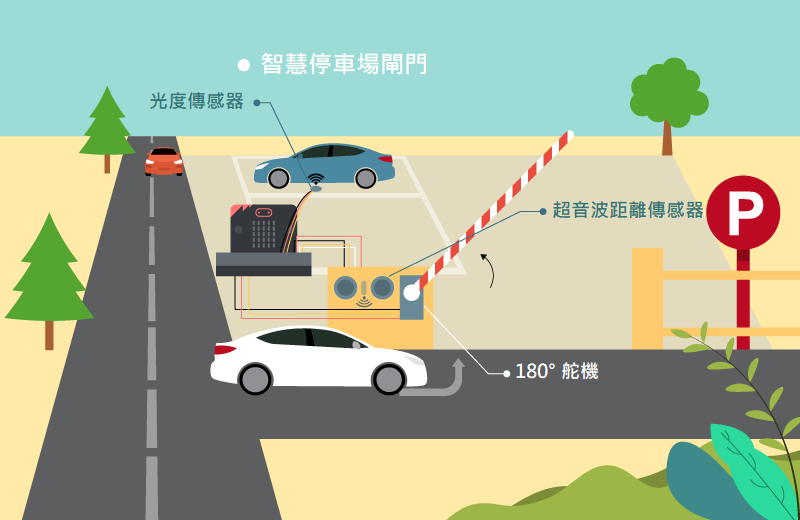
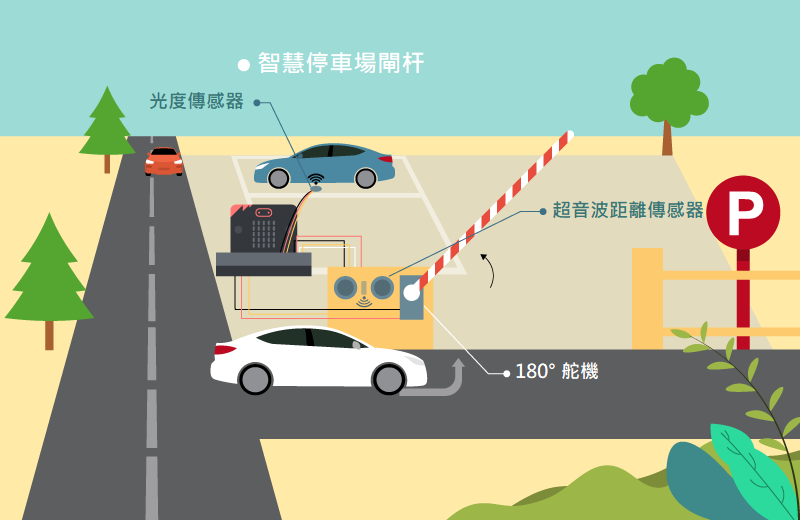
update smartcity menu name

Changed region(s): [[0.3125, 0.0923, 0.5312, 0.1538]]

diff --git a/docs/smartcity/case11.md b/docs/smartcity/case11.md
@@ -1,4 +1,4 @@
-# 物聯網案例 11: 自動天台布架
+# 物聯網案例 11: 自動天台簷篷系統
 
 程度: ![level](images/level4.png)
 ![auto_fit](images/Case11/case-11.png)<P>
@@ -6,7 +6,7 @@
 ## 目標
 <HR>
 
-製作一個會在天氣改變時自動開關的布架，避免衣物被雨水沾濕。
+製作一個會在天氣改變時自動開關的簷篷，避免衣物被雨水沾濕。
 
 ## 背景
 <HR>
@@ -14,7 +14,7 @@
 <span id="subtitle">為什麼我們需要自動布架?</span><BR><P>
 這樣當下雨時人們再不需要衝上天台把衣服收回。<BR><P>
 <span id="subtitle">運作原理</span><BR><P>
-Micro:bit通過IFTTT平台上的天氣預報系統，取得指令內容開關布架。<BR><P>
+Micro:bit通過IFTTT平台上的天氣預報系統，取得指令內容開關簷篷。<BR><P>
 ![auto_fit](images/Case11/Concept-diagram-Case11.png)<P>
 
 ## 所用部件
@@ -80,11 +80,11 @@ G (黑) | G (棕)
 * 在第二個 "那麼" 裡添加`Turn Servo to 180 degree at P1`
 ![auto_fit](images/Case11/Case11_p4.png)<P>
 
-<span id="subtitle">步驟五. 按 A 以開啟布架</span><BR><P>
+<span id="subtitle">步驟五. 按 A 以開啟簷篷</span><BR><P>
 * 當按A按鈕時，轉動舵機
 ![pic_50](images/Case11/Case11_p5.png)<P>
 
-<span id="subtitle">步驟六. 按 B 以開啟布架</span><BR><P>
+<span id="subtitle">步驟六. 按 B 以開啟簷篷</span><BR><P>
 * 當按B按鈕時，向另一角度轉動舵機
 ![pic_50](images/Case11/Case11_p6.png)<P>
 
@@ -114,7 +114,7 @@ MakeCode: [https://makecode.microbit.org/_h133LW5miXY9](https://makecode.microbi
 ## 結果
 <HR>
 IFTTT會依照地點的天氣發送指令。<BR>
-當 micro:bit 收到”RAIN"指令，布架會關上。反之則開啟。<BR><P>
+當 micro:bit 收到”RAIN"指令，簷篷會關上。反之則開啟。<BR><P>
 
 ![auto_fit](images/Case11/Case11_result.gif)<P>
 

diff --git a/docs/smartcity/case01.md b/docs/smartcity/case01.md
@@ -1,4 +1,4 @@
-# 案例 01: 自動化感應街燈
+# 案例 01: 自動遊樂場燈
 
 程度: ![level](images/level1.png)
 ![auto_fit](images/Case1/case-01_1.png)<P>
@@ -6,18 +6,18 @@
 
 ## 目標
 <HR>
-製作一個能感應附近活動的智能街燈。<P>
+製作一個能感應附近活動的智能遊樂場燈。<P>
 
 ## 背景
 <HR>
-<span id="subtitle">甚麼是智能街燈?</span><P>
+<span id="subtitle">甚麼是智能遊樂場燈?</span><P>
 
-智能街燈能夠在感應到有人活動時自動開啟，無人時自動關閉，以節省電力。<P>
+智能遊樂場燈能夠在感應到有人活動時自動開啟，無人時自動關閉，以節省電力。<P>
 
 <span id="subtitle">運作原理</span><P>
 
 以附上的運動傳感器偵察附近的活動。如果傳感器回報 TRUE，則反映有人在附近，
-街燈會自動開啟，反之亦然。<BR>
+遊樂場燈會自動開啟，反之亦然。<BR>
 
 ![pic_60](images/Case1/Concept-diagram-Case1.png)<P>
 
@@ -85,7 +85,7 @@ MakeCode: [https://makecode.microbit.org/_UM2VU1AFoiYt](https://makecode.microbi
 ## 思考
 <HR> 
 
-Q1. 除了自動化感應街燈外，還可以怎使用運動傳感器?<BR><P>
+Q1. 除了自動遊樂場燈外，還可以怎使用運動傳感器?<BR><P>
 
 <!---
 Q2. How should we reset the programming if we connect the white LED light to P3?<BR><P>

diff --git a/docs/smartcity/case02.md b/docs/smartcity/case02.md
@@ -1,4 +1,4 @@
-# 案例 02: 智慧停車場閘門
+# 案例 02: 智慧停車場閘杆
 
 程度: ![level](images/level2.png)
 ![auto_fit](images/Case2/case-02.png)<P>
@@ -6,13 +6,13 @@
 ## 目標
 <HR>
 
-製作一個會根據停車場內車位狀況和是否有來車自動開閉閘門的智慧停車場閘門。<BR><P>
+製作一個會根據停車場內車位狀況和是否有來車自動開閉的智慧停車場閘杆。<BR><P>
 
 ## 背景
 <HR>
 
-<span id="subtitle">甚麼是智慧停車場閘門?</span><P>
-智慧停車場能為人們帶來便利。通過自動偵測停車場內車位狀況，它能夠節省司機等候閘門開啟和尋找車位的時間。<BR><P>
+<span id="subtitle">甚麼是智慧停車場閘杆?</span><P>
+智慧停車場閘杆能為人們帶來便利。通過自動偵測停車場內車位狀況，它能夠節省司機等候閘門開啟和尋找車位的時間。<BR><P>
 
 <span id="subtitle">運作原理</span><P>
 180° 舵機控制閘門的開關。如果停車場內尚有空位，閘門會在有車駛近時自動開啟。若然已無車位，即使有車到訪，閘門也不會開啟。<BR><P>

diff --git a/docs/smartcity/case04.md b/docs/smartcity/case04.md
@@ -1,4 +1,4 @@
-# 案例 04: 智能都市噪音監控
+# 案例 04: 城市噪音檢測器
 
 程度: ![level](images/level2.png)
 ![auto_fit](images/Case4/case-04_1.png)<P>
@@ -6,14 +6,14 @@
 ## 目標
 <HR>
 
-製作一個能夠偵查路邊噪音的監測點。<BR><P>
+製作一個能夠偵查路邊噪音的檢測器。<BR><P>
 
 ## 背景
 <HR>
 
-<span id="subtitle">甚麼是智能都市噪音監測?</span><P>
-智能都市噪音監測系統監測公路上的噪音污染，因為過大的噪音會降低周遭人們的生活水
-平。<BR>安裝一個系統可以幫助工程師收集有關數據用於城市規劃。<BR><P>
+<span id="subtitle">甚麼是城市噪音檢測器?</span><P>
+城市噪音檢測器能監測公路上的噪音污染，因為過大的噪音會降低周遭人們的生活水
+平。<BR>安裝一個檢測器可以幫助工程師收集有關數據用於城市規劃。<BR><P>
 
 <span id="subtitle">運作原理</span><P>
 聲音傳感器可以偵測公路上的噪音水平，數據可以以圖表形式顯然。<BR><P>

diff --git a/docs/smartcity/case05.md b/docs/smartcity/case05.md
@@ -1,4 +1,4 @@
-# 案例 05: 智能監速器
+# 案例 05: 車速檢測器
 
 程度: ![level](images/level3.png)
 ![auto_fit](images/Case5/case-05.png)<P>
@@ -6,13 +6,13 @@
 ## 目標
 <HR>
 
-製作一個智能監速器。<BR><P>
+製作一個車速檢測器。<BR><P>
 
 ## 背景
 <HR>
 
-<span id="subtitle">甚麼是監速器?</span><P>
-監速系統能根據車輛在一定時間內移動距離得出其車速。 安裝監速系統能有效減少交通意外發生。<BR><P>
+<span id="subtitle">甚麼是車速檢測器?</span><P>
+檢測系統能根據車輛在一定時間內移動距離得出其車速。 安裝檢測系統用以檢控有效減少交通意外發生。<BR><P>
 
 <span id="subtitle">運作原理</span><P>
 超音波距離傳感器可以在兩個時間點測量車輛與其之間的距離，從而計算其速率。 <BR><P>

diff --git a/docs/smartcity/case10.md b/docs/smartcity/case10.md
@@ -1,4 +1,4 @@
-# 物聯網案例 10: 智能街燈
+# 物聯網案例 10: 節能街燈
 
 程度: ![level](images/level4.png)
 ![auto_fit](images/Case10/case-10.png)<P>
@@ -11,8 +11,8 @@
 ## 背景
 <HR>
 
-<span id="subtitle">甚麼是智能街燈?</span><BR><P>
-智能街燈是可以在指定時間自動開關的街燈，能夠同時兼顧節省能源及照明需求。<BR><P>
+<span id="subtitle">甚麼是節能街燈?</span><BR><P>
+節能街燈是可以在指定時間自動開關的街燈，能夠同時兼顧節省能源及照明需求。<BR><P>
 <span id="subtitle">運作原理</span><BR><P>
 當從 WAN 收到指令，micro:bit 會根據指令控制街燈。所以只需要在不同時間及場合發送指令即可。<BR><P>
 ![auto_fit](images/Case10/Concept-diagram-Case10.png)<P>

diff --git a/docs/smartcity/case06.md b/docs/smartcity/case06.md
@@ -1,4 +1,4 @@
-# 物聯網案例 06: 都市氣象站
+# 物聯網案例 06: 智慧天氣監測站
 
 程度: ![level](images/level2.png)
 ![auto_fit](images/Case6/case-06.png)<P>
@@ -6,7 +6,7 @@
 ## 目標
 <HR>
 
-製作一個能收集雨水，溫度及濕度傳感器數據的氣象站，並自動把數據送上ThingSpeak 平台。<BR><P>
+製作一個能收集雨水，溫度及濕度傳感器數據的天氣監測站，並自動把數據送上ThingSpeak 平台。<BR><P>
 
 ## 背景
 <HR>

diff --git a/docs/smartcity/case07.md b/docs/smartcity/case07.md
@@ -1,4 +1,4 @@
-# 物聯網案例 07: 智能家居防衛系統
+# 物聯網案例 07: 智能家居防盜系統
 
 程度: ![level](images/level3.png)
 ![auto_fit](images/Case7/case-07.png)<P>
@@ -6,7 +6,7 @@
 ## 目標
 <HR>
 
-製作一個能在附近有可疑活動時自動發出警報和提示的智能家居防衛系統。<BR><P>
+製作一個能在附近有可疑活動時自動發出警報和提示的智能家居防盜系統。<BR><P>
 
 ## Background
 <HR>

diff --git a/docs/smartcity/case09.md b/docs/smartcity/case09.md
@@ -1,4 +1,4 @@
-# 物聯網案例 09: 智能屋門控制
+# 物聯網案例 09: 遙距智能門控制
 
 程度: ![level](images/level4.png)
 ![auto_fit](images/Case9/case-09.png)<P>
